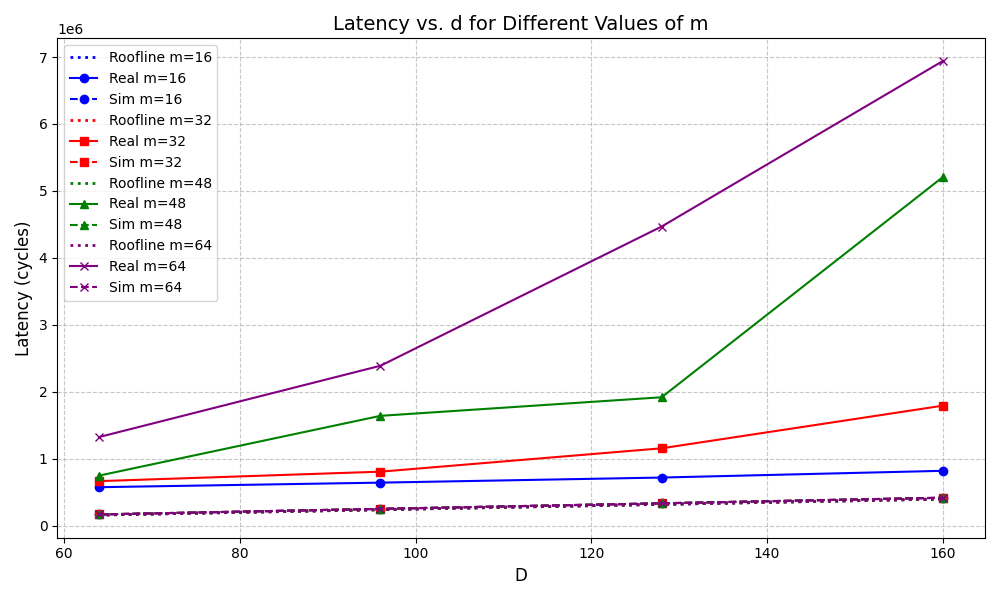
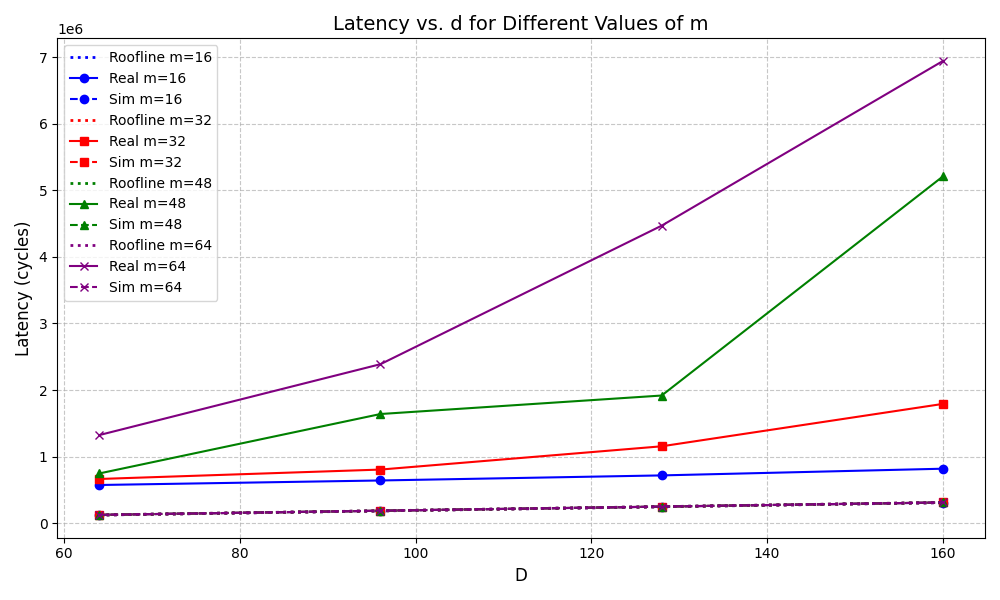
Why is the intercept negative?

diff --git a/kernels/test_04_15_09_58/plot_scripts/plot_16_steady_fit.py b/kernels/test_04_15_09_58/plot_scripts/plot_16_steady_fit.py
@@ -27,20 +27,49 @@ def load_and_process_file(filename):
     
     return last_line
 
-def calculate_roofline(last_line, bandwidth, mm_thpt, vec_thpt):
+def extract_total_bytes(df):
+    thpt_line = df[(df["Section Name"] == "Memory Workload Analysis") & (df["Metric Name"] ==  "Memory Throughput")]
+    thpt_unit = thpt_line["Metric Unit"].values[0]
+    thpt_value = float(thpt_line["Metric Value"].values[0])
+    if thpt_unit == "Gbyte/s":
+        thpt_value *= 1e9
+    elif thpt_unit == "Mbyte/s":
+        thpt_value *= 1e6
+    else:
+        raise ValueError(f"Unknown unit: {thpt_unit}")
+    
+    time_line = df[(df["Section Name"] == "GPU Speed Of Light Throughput") & (df["Metric Name"] ==  "Duration")]
+    time_unit = time_line["Metric Unit"].values[0]
+    time_value = float(time_line["Metric Value"].values[0])
+    if time_unit == "ms":
+        time_value *= 1e-3
+    elif time_unit == "us":
+        time_value *= 1e-6
+    elif time_unit == "ns":
+        time_value *= 1e-9
+    else:
+        raise ValueError(f"Unknown unit: {time_unit}")
+    
+    return thpt_value * time_value
+
+def calculate_roofline(last_line, base_dir, bandwidth, mm_thpt, vec_thpt):
+    profile_file = os.path.join(base_dir, f"short_{last_line['shape']}.csv")
+    df = pd.read_csv(profile_file)
     shape = [int(x) for x in last_line['shape'].split('x')]
+    total_bytes = extract_total_bytes(df)
     b, h, m, n, d = shape
-    total_bytes = b * h * (2 * m * d * 2 + 2 * n * d * 2)
+    minimal_bytes = b * h * (2 * m * d * 2 + 2 * n * d * 2)
     compute_latency = b * h * (2 * m * n * d * 2 / mm_thpt + (2 * m * 16 + m * d) * n / 16 / vec_thpt)
     memory_latency = total_bytes / bandwidth
-    return max(memory_latency, compute_latency)
+    rel_err = (total_bytes - minimal_bytes) / total_bytes
+    return max(memory_latency, compute_latency), rel_err
 
 def plot_latency_d(arch, output_file):
     plt.figure(figsize=(12, 8))
 
     if arch == "a100":
         base_shape = "13x8"
-        freq = 1.41 * 1e9
+        freq = 1.10 * 1e9
         bandwidth = 1.5 * 1e12 / freq
         mm_thpt = 312 * 1e12 / freq
         vec_thpt = 39 * 1e12 / freq
@@ -71,13 +100,15 @@ def plot_latency_d(arch, output_file):
         slopes = []
         intercepts = []
         roofline_latencies = []
+        rel_errors = []
         for d in d_values:
             filename = f"{base_dir}/output_{base_shape}x{m}x{d}.csv"
             run_last_line = load_and_process_file(filename)
             
             real_latencies.append(run_last_line['latency'])
-            roofline_latency = calculate_roofline(run_last_line, bandwidth, mm_thpt, vec_thpt)
+            roofline_latency, rel_err = calculate_roofline(run_last_line, base_dir, bandwidth, mm_thpt, vec_thpt)
             roofline_latencies.append(roofline_latency)
+            rel_errors.append(rel_err)
         
         for j in range(len(real_latencies) - 1):
             slope = (real_latencies[j + 1] - real_latencies[j]) / (d_values[j + 1] - d_values[j])
@@ -88,9 +119,10 @@ def plot_latency_d(arch, output_file):
         # Roofline slope and intercept
         roofline_slope = (roofline_latencies[-1] - roofline_latencies[0]) / (d_values[-1] - d_values[0])
         roofline_intercept = roofline_latencies[0] - roofline_slope * d_values[0]  
+        bytes_error_str = ", ".join([f"{e:.2f}" for e in rel_errors])
         # Plot real data with solid lines (-)
         plt.plot(d_values, real_latencies, color=colors[i], marker=markers[i], 
-                 linestyle='-', label=f'Real m={m}; Roofline: k={roofline_slope:.2f}, b={roofline_intercept:.2f}')
+                 linestyle='-', label=f'Real m={m}; Roofline: k={roofline_slope:.2f}, b={roofline_intercept:.2f}; Bytes Err: {bytes_error_str}')
         
         # Display slope and intercept on top of each line
         for j in range(len(slopes)):

diff --git a/kernels/test_04_15_09_58/plot_scripts/plot_16_steady_roofline.py b/kernels/test_04_15_09_58/plot_scripts/plot_16_steady_roofline.py
@@ -40,7 +40,7 @@ def plot_latency_d(arch, output_file):
 
     if arch == "a100":
         base_shape = "13x8"
-        freq = 1.41 * 1e9
+        freq = 1.10 * 1e9
         bandwidth = 1.5 * 1e12 / freq
         mm_thpt = 312 * 1e12 / freq
         vec_thpt = 39 * 1e12 / freq
@@ -110,7 +110,7 @@ def plot_latency_m(arch, output_file):
 
     if arch == "a100":
         base_shape = "13x8"
-        freq = 1.41 * 1e9
+        freq = 1.10 * 1e9
         bandwidth = 1.5 * 1e12 / freq
         mm_thpt = 312 * 1e12 / freq
         vec_thpt = 39 * 1e12 / freq

diff --git a/kernels/test_04_15_09_58/plot_scripts/plot_16_calc_roofline.py b/kernels/test_04_15_09_58/plot_scripts/plot_16_calc_roofline.py
@@ -139,7 +139,7 @@ def plot_latency_m(arch, output_file):
 
     if arch == "a100":
         base_shape = "13x8"
-        freq = 1.41 * 1e9
+        freq = 1.10 * 1e9
         bandwidth = 1.5 * 1e12 / freq
         mm_thpt = 312 * 1e12 / freq
         vec_thpt = 39 * 1e12 / freq
